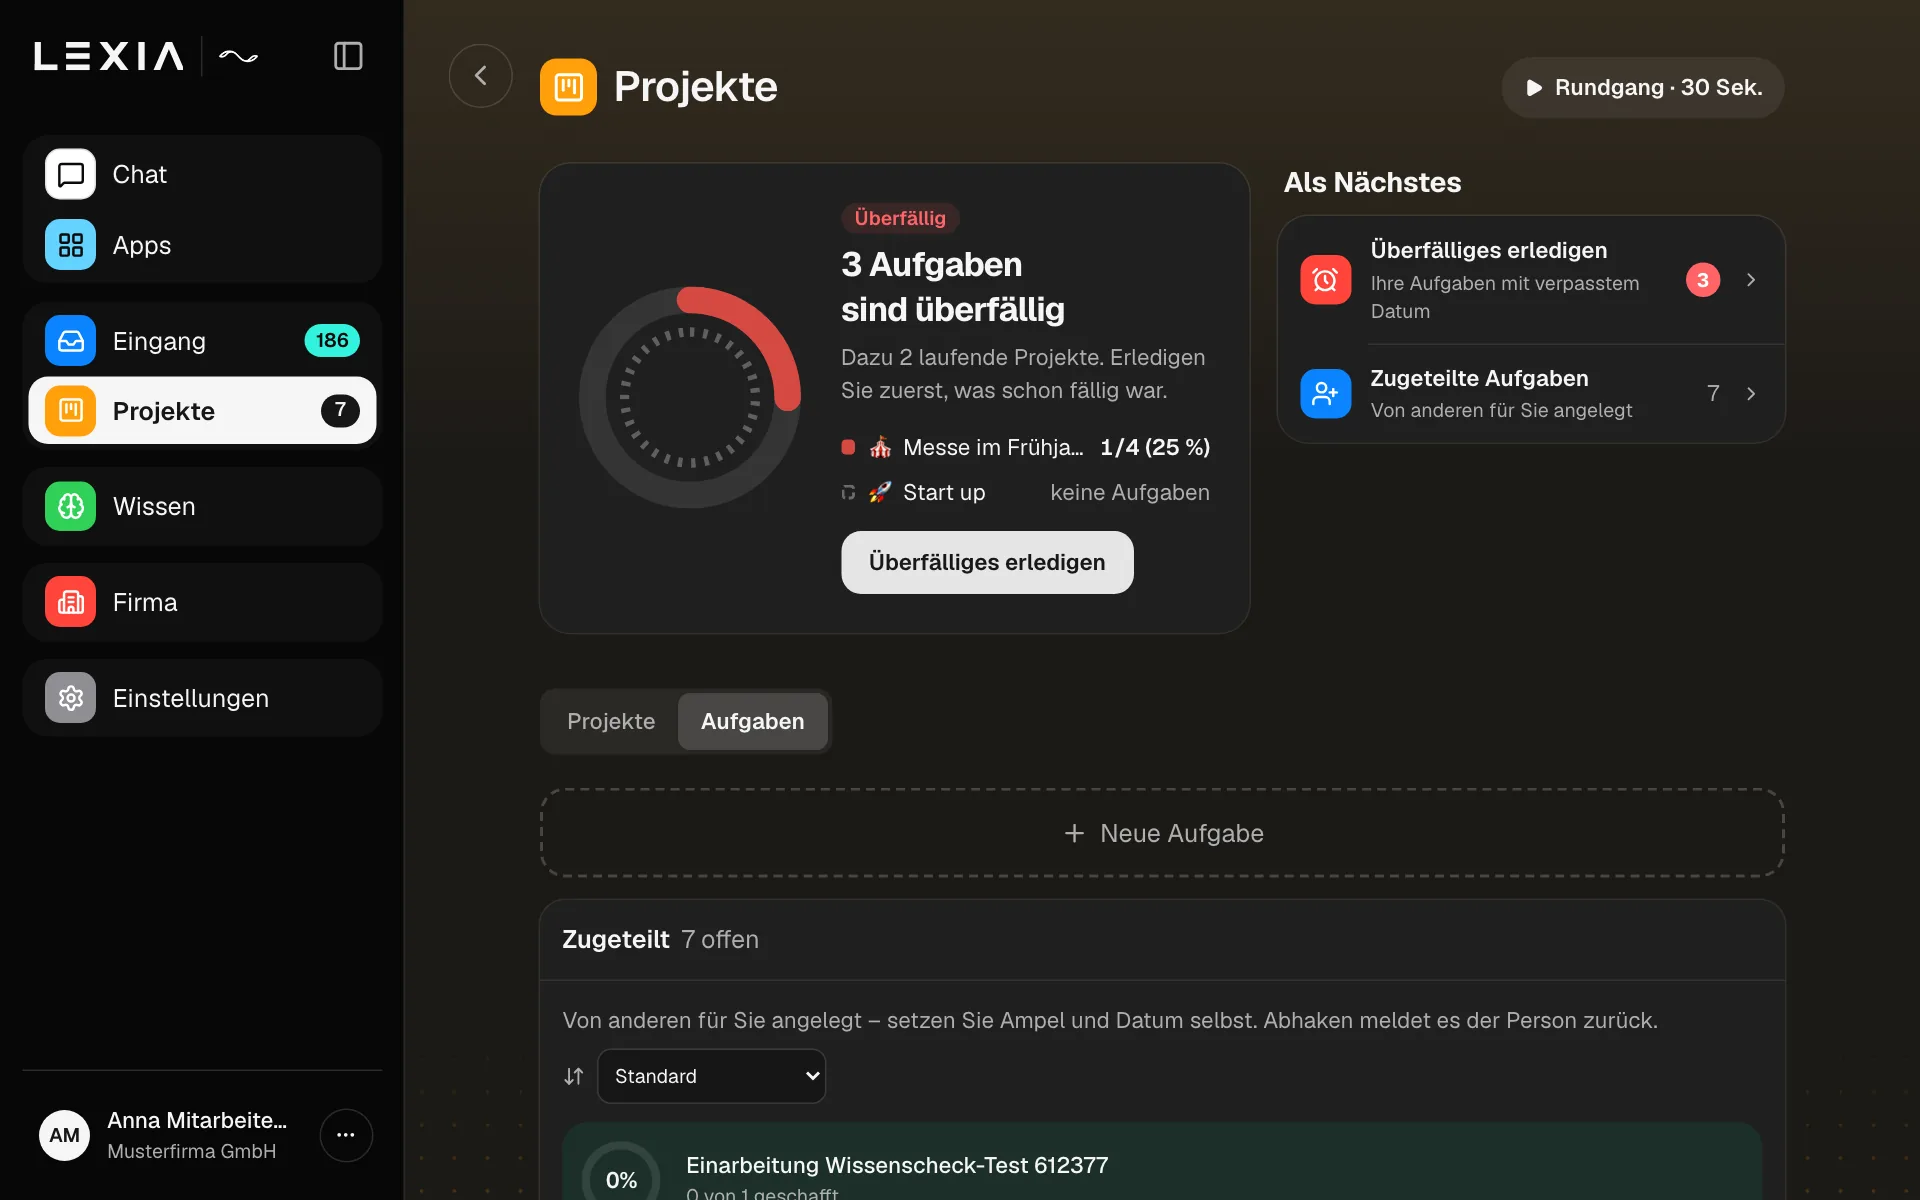
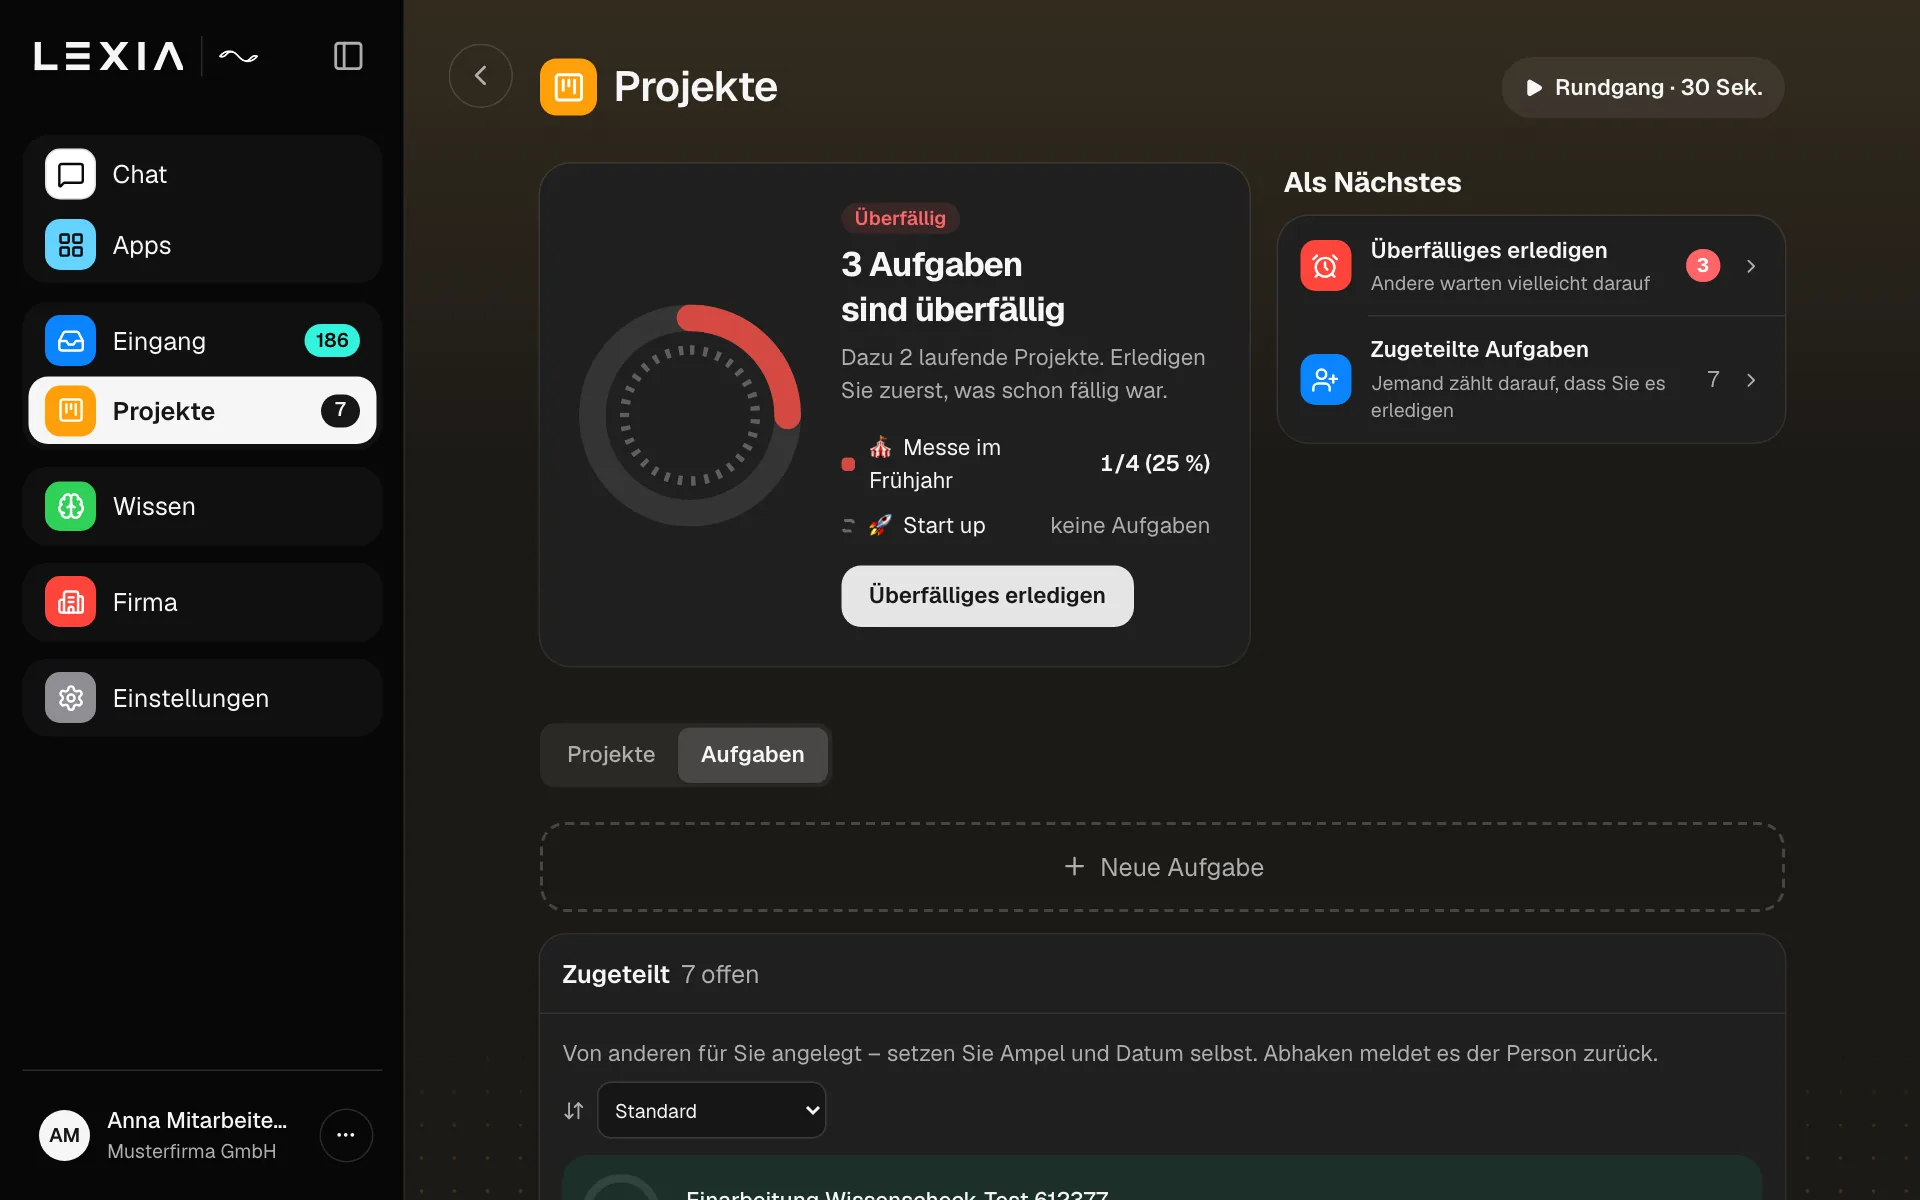
Rundgang-Bilder nach LEXIA H1 (Ringe als Band, Warum-Zeilen)

diff --git a/lexia.html b/lexia.html
@@ -565,14 +565,14 @@
                         <div class="tour-rahmen" data-tour-rahmen aria-hidden="true">
                             <div class="lx" data-tour-buehne>
                                 <!-- Bilder aus dem echten LEXIA: in LEXIA „npm run rundgang-bilder“ (nimmt sie neu auf und trägt sie hier ein) -->
-                                <img class="rg-bild" data-bild="prozess-1" data-xy="460,504" src="assets/img/rundgang/prozess-1.webp?v=60071b41" width="1280" height="800" alt="" loading="lazy" decoding="async">
+                                <img class="rg-bild" data-bild="prozess-1" data-xy="460,504" src="assets/img/rundgang/prozess-1.webp?v=df5ee702" width="1280" height="800" alt="" loading="lazy" decoding="async">
                                 <img class="rg-bild" data-bild="prozess-2" data-xy="463,316" src="assets/img/rundgang/prozess-2.webp?v=70ad3e67" width="1280" height="800" alt="" loading="lazy" decoding="async">
                                 <img class="rg-bild" data-bild="prozess-3" data-xy="455,674" src="assets/img/rundgang/prozess-3.webp?v=4ed72fcf" width="1280" height="800" alt="" loading="lazy" decoding="async">
-                                <img class="rg-bild" data-bild="prozess-4" src="assets/img/rundgang/prozess-4.webp?v=dc0d81c3" width="1280" height="800" alt="" loading="lazy" decoding="async">
-                                <img class="rg-bild" data-bild="prozess-5" data-xy="618,441" src="assets/img/rundgang/prozess-5.webp?v=61734ae7" width="1280" height="800" alt="" loading="lazy" decoding="async">
+                                <img class="rg-bild" data-bild="prozess-4" src="assets/img/rundgang/prozess-4.webp?v=aa6092a6" width="1280" height="800" alt="" loading="lazy" decoding="async">
+                                <img class="rg-bild" data-bild="prozess-5" data-xy="618,441" src="assets/img/rundgang/prozess-5.webp?v=ca30e0fd" width="1280" height="800" alt="" loading="lazy" decoding="async">
                                 <img class="rg-bild" data-bild="prozess-6" src="assets/img/rundgang/prozess-6.webp?v=54a5704b" width="1280" height="800" alt="" loading="lazy" decoding="async">
-                                <img class="rg-bild" data-bild="prozess-7" data-xy="755,475" src="assets/img/rundgang/prozess-7.webp?v=5a565e2a" width="1280" height="800" alt="" loading="lazy" decoding="async">
-                                <img class="rg-bild" data-bild="prozess-8" data-xy="407,708" src="assets/img/rundgang/prozess-8.webp?v=d2d37409" width="1280" height="800" alt="" loading="lazy" decoding="async">
+                                <img class="rg-bild" data-bild="prozess-7" data-xy="755,475" src="assets/img/rundgang/prozess-7.webp?v=5e842070" width="1280" height="800" alt="" loading="lazy" decoding="async">
+                                <img class="rg-bild" data-bild="prozess-8" data-xy="407,708" src="assets/img/rundgang/prozess-8.webp?v=cf3e364d" width="1280" height="800" alt="" loading="lazy" decoding="async">
                                 <span class="lx-finger" data-tour-zeiger></span>
                             </div>
                         </div>
@@ -605,12 +605,12 @@
                         <div class="tour-rahmen" data-tour-rahmen aria-hidden="true">
                             <div class="lx" data-tour-buehne>
                                 <!-- Bilder aus dem echten LEXIA: in LEXIA „npm run rundgang-bilder“ (nimmt sie neu auf und trägt sie hier ein) -->
-                                <img class="rg-bild" data-bild="wissen-1" data-xy="495,591" src="assets/img/rundgang/wissen-1.webp?v=67ea7332" width="1280" height="800" alt="" loading="lazy" decoding="async">
-                                <img class="rg-bild" data-bild="wissen-2" data-xy="553,683" src="assets/img/rundgang/wissen-2.webp?v=94d8a721" width="1280" height="800" alt="" loading="lazy" decoding="async">
-                                <img class="rg-bild" data-bild="wissen-3" data-xy="516,740" src="assets/img/rundgang/wissen-3.webp?v=95d59a74" width="1280" height="800" alt="" loading="lazy" decoding="async">
-                                <img class="rg-bild" data-bild="wissen-4" src="assets/img/rundgang/wissen-4.webp?v=61915456" width="1280" height="800" alt="" loading="lazy" decoding="async">
-                                <img class="rg-bild" data-bild="wissen-5" src="assets/img/rundgang/wissen-5.webp?v=1353538c" width="1280" height="800" alt="" loading="lazy" decoding="async">
-                                <img class="rg-bild" data-bild="wissen-6" data-xy="546,464" src="assets/img/rundgang/wissen-6.webp?v=a447d56a" width="1280" height="800" alt="" loading="lazy" decoding="async">
+                                <img class="rg-bild" data-bild="wissen-1" data-xy="495,591" src="assets/img/rundgang/wissen-1.webp?v=c60a2f73" width="1280" height="800" alt="" loading="lazy" decoding="async">
+                                <img class="rg-bild" data-bild="wissen-2" data-xy="553,683" src="assets/img/rundgang/wissen-2.webp?v=2c262fc5" width="1280" height="800" alt="" loading="lazy" decoding="async">
+                                <img class="rg-bild" data-bild="wissen-3" data-xy="516,740" src="assets/img/rundgang/wissen-3.webp?v=a9a3fa35" width="1280" height="800" alt="" loading="lazy" decoding="async">
+                                <img class="rg-bild" data-bild="wissen-4" src="assets/img/rundgang/wissen-4.webp?v=3341d9b3" width="1280" height="800" alt="" loading="lazy" decoding="async">
+                                <img class="rg-bild" data-bild="wissen-5" src="assets/img/rundgang/wissen-5.webp?v=0a50b335" width="1280" height="800" alt="" loading="lazy" decoding="async">
+                                <img class="rg-bild" data-bild="wissen-6" data-xy="546,464" src="assets/img/rundgang/wissen-6.webp?v=874b0242" width="1280" height="800" alt="" loading="lazy" decoding="async">
                                 <span class="lx-finger" data-tour-zeiger></span>
                             </div>
                         </div>
@@ -644,10 +644,10 @@
                             <div class="lx" data-tour-buehne>
                                 <!-- Bilder aus dem echten LEXIA: in LEXIA „npm run rundgang-bilder“ (nimmt sie neu auf und trägt sie hier ein) -->
                                 <img class="rg-bild" data-bild="fragen-1" data-xy="814,392" src="assets/img/rundgang/fragen-1.webp?v=642b0204" width="1280" height="800" alt="" loading="lazy" decoding="async">
-                                <img class="rg-bild" data-bild="fragen-2" data-xy="755,475" src="assets/img/rundgang/fragen-2.webp?v=1340457a" width="1280" height="800" alt="" loading="lazy" decoding="async">
-                                <img class="rg-bild" data-bild="fragen-3" data-xy="761,387" src="assets/img/rundgang/fragen-3.webp?v=6212726f" width="1280" height="800" alt="" loading="lazy" decoding="async">
-                                <img class="rg-bild" data-bild="fragen-4" data-xy="509,382" src="assets/img/rundgang/fragen-4.webp?v=2a633342" width="1280" height="800" alt="" loading="lazy" decoding="async">
-                                <img class="rg-bild" data-bild="fragen-5" src="assets/img/rundgang/fragen-5.webp?v=0b3d8b9a" width="1280" height="800" alt="" loading="lazy" decoding="async">
+                                <img class="rg-bild" data-bild="fragen-2" data-xy="755,476" src="assets/img/rundgang/fragen-2.webp?v=bffad9b5" width="1280" height="800" alt="" loading="lazy" decoding="async">
+                                <img class="rg-bild" data-bild="fragen-3" data-xy="761,387" src="assets/img/rundgang/fragen-3.webp?v=52bbbdb0" width="1280" height="800" alt="" loading="lazy" decoding="async">
+                                <img class="rg-bild" data-bild="fragen-4" data-xy="509,382" src="assets/img/rundgang/fragen-4.webp?v=648ca0cf" width="1280" height="800" alt="" loading="lazy" decoding="async">
+                                <img class="rg-bild" data-bild="fragen-5" src="assets/img/rundgang/fragen-5.webp?v=ea16882f" width="1280" height="800" alt="" loading="lazy" decoding="async">
                                 <span class="lx-finger" data-tour-zeiger></span>
                             </div>
                         </div>
@@ -678,12 +678,12 @@
                         </div>
                         <div class="tour-rahmen" data-tour-rahmen aria-hidden="true">
                             <div class="lx" data-tour-buehne>
-                                <img class="rg-bild" data-bild="absicherung-1" data-xy="445,428" src="assets/img/rundgang/absicherung-1.webp?v=e9556fdd" width="1280" height="800" alt="" loading="lazy" decoding="async">
-                                <img class="rg-bild" data-bild="absicherung-2" data-xy="487,541" src="assets/img/rundgang/absicherung-2.webp?v=07817836" width="1280" height="800" alt="" loading="lazy" decoding="async">
-                                <img class="rg-bild" data-bild="absicherung-3" data-xy="1106,154" src="assets/img/rundgang/absicherung-3.webp?v=17ad26d9" width="1280" height="800" alt="" loading="lazy" decoding="async">
-                                <img class="rg-bild" data-bild="absicherung-4" data-xy="775,436" src="assets/img/rundgang/absicherung-4.webp?v=cce43e4a" width="1280" height="800" alt="" loading="lazy" decoding="async">
-                                <img class="rg-bild" data-bild="absicherung-5" data-xy="487,725" src="assets/img/rundgang/absicherung-5.webp?v=2b8c88f0" width="1280" height="800" alt="" loading="lazy" decoding="async">
-                                <img class="rg-bild" data-bild="absicherung-6" data-xy="471,221" src="assets/img/rundgang/absicherung-6.webp?v=091e6d77" width="1280" height="800" alt="" loading="lazy" decoding="async">
+                                <img class="rg-bild" data-bild="absicherung-1" data-xy="445,428" src="assets/img/rundgang/absicherung-1.webp?v=989448a3" width="1280" height="800" alt="" loading="lazy" decoding="async">
+                                <img class="rg-bild" data-bild="absicherung-2" data-xy="487,541" src="assets/img/rundgang/absicherung-2.webp?v=2a375a17" width="1280" height="800" alt="" loading="lazy" decoding="async">
+                                <img class="rg-bild" data-bild="absicherung-3" data-xy="1106,154" src="assets/img/rundgang/absicherung-3.webp?v=a206540c" width="1280" height="800" alt="" loading="lazy" decoding="async">
+                                <img class="rg-bild" data-bild="absicherung-4" data-xy="775,436" src="assets/img/rundgang/absicherung-4.webp?v=9b0fa6e6" width="1280" height="800" alt="" loading="lazy" decoding="async">
+                                <img class="rg-bild" data-bild="absicherung-5" data-xy="487,725" src="assets/img/rundgang/absicherung-5.webp?v=fcd89dfa" width="1280" height="800" alt="" loading="lazy" decoding="async">
+                                <img class="rg-bild" data-bild="absicherung-6" data-xy="471,221" src="assets/img/rundgang/absicherung-6.webp?v=106611c3" width="1280" height="800" alt="" loading="lazy" decoding="async">
                                 <span class="lx-finger" data-tour-zeiger></span>
                             </div>
                         </div>
@@ -713,11 +713,11 @@
                         </div>
                         <div class="tour-rahmen" data-tour-rahmen aria-hidden="true">
                             <div class="lx" data-tour-buehne>
-                                <img class="rg-bild" data-bild="projekte-1" data-xy="986,705" src="assets/img/rundgang/projekte-1.webp?v=5a0d7172" width="1280" height="800" alt="" loading="lazy" decoding="async">
-                                <img class="rg-bild" data-bild="projekte-2" data-xy="540,386" src="assets/img/rundgang/projekte-2.webp?v=3408d683" width="1280" height="800" alt="" loading="lazy" decoding="async">
-                                <img class="rg-bild" data-bild="projekte-3" data-xy="1122,510" src="assets/img/rundgang/projekte-3.webp?v=9a9f38aa" width="1280" height="800" alt="" loading="lazy" decoding="async">
+                                <img class="rg-bild" data-bild="projekte-1" data-xy="986,705" src="assets/img/rundgang/projekte-1.webp?v=47970c97" width="1280" height="800" alt="" loading="lazy" decoding="async">
+                                <img class="rg-bild" data-bild="projekte-2" data-xy="540,386" src="assets/img/rundgang/projekte-2.webp?v=a0c930c1" width="1280" height="800" alt="" loading="lazy" decoding="async">
+                                <img class="rg-bild" data-bild="projekte-3" data-xy="1122,510" src="assets/img/rundgang/projekte-3.webp?v=e18da614" width="1280" height="800" alt="" loading="lazy" decoding="async">
                                 <img class="rg-bild" data-bild="projekte-4" data-xy="400,400" src="assets/img/rundgang/projekte-4.webp?v=a3d133b0" width="1280" height="800" alt="" loading="lazy" decoding="async">
-                                <img class="rg-bild" data-bild="projekte-5" data-xy="502,481" src="assets/img/rundgang/projekte-5.webp?v=79424024" width="1280" height="800" alt="" loading="lazy" decoding="async">
+                                <img class="rg-bild" data-bild="projekte-5" data-xy="502,504" src="assets/img/rundgang/projekte-5.webp?v=0c3ab35e" width="1280" height="800" alt="" loading="lazy" decoding="async">
                                 <span class="lx-finger" data-tour-zeiger></span>
                             </div>
                         </div>
@@ -751,7 +751,7 @@
                                 <img class="rg-bild" data-bild="start-2" data-xy="1085,223" src="assets/img/rundgang/start-2.webp?v=86011767" width="1280" height="800" alt="" loading="lazy" decoding="async">
                                 <img class="rg-bild" data-bild="start-3" data-xy="720,759" src="assets/img/rundgang/start-3.webp?v=fe4a4114" width="1280" height="800" alt="" loading="lazy" decoding="async">
                                 <img class="rg-bild" data-bild="start-4" data-xy="634,524" src="assets/img/rundgang/start-4.webp?v=04d839f6" width="1280" height="800" alt="" loading="lazy" decoding="async">
-                                <img class="rg-bild" data-bild="start-5" data-xy="321,51" src="assets/img/rundgang/start-5.webp?v=d166c3cc" width="1280" height="800" alt="" loading="lazy" decoding="async">
+                                <img class="rg-bild" data-bild="start-5" data-xy="321,51" src="assets/img/rundgang/start-5.webp?v=f178af3c" width="1280" height="800" alt="" loading="lazy" decoding="async">
                                 <span class="lx-finger" data-tour-zeiger></span>
                             </div>
                         </div>
